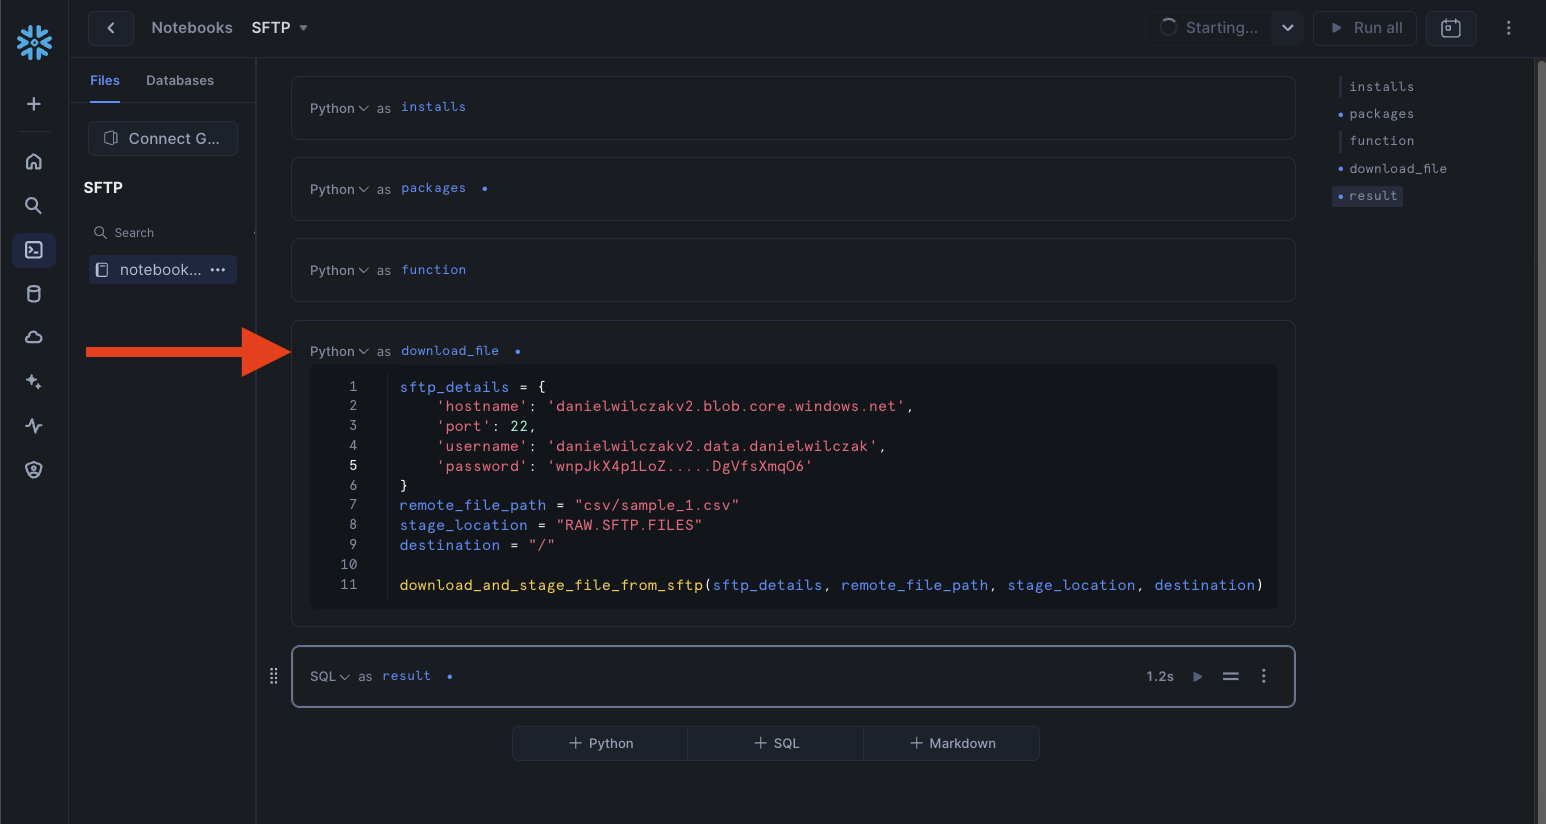
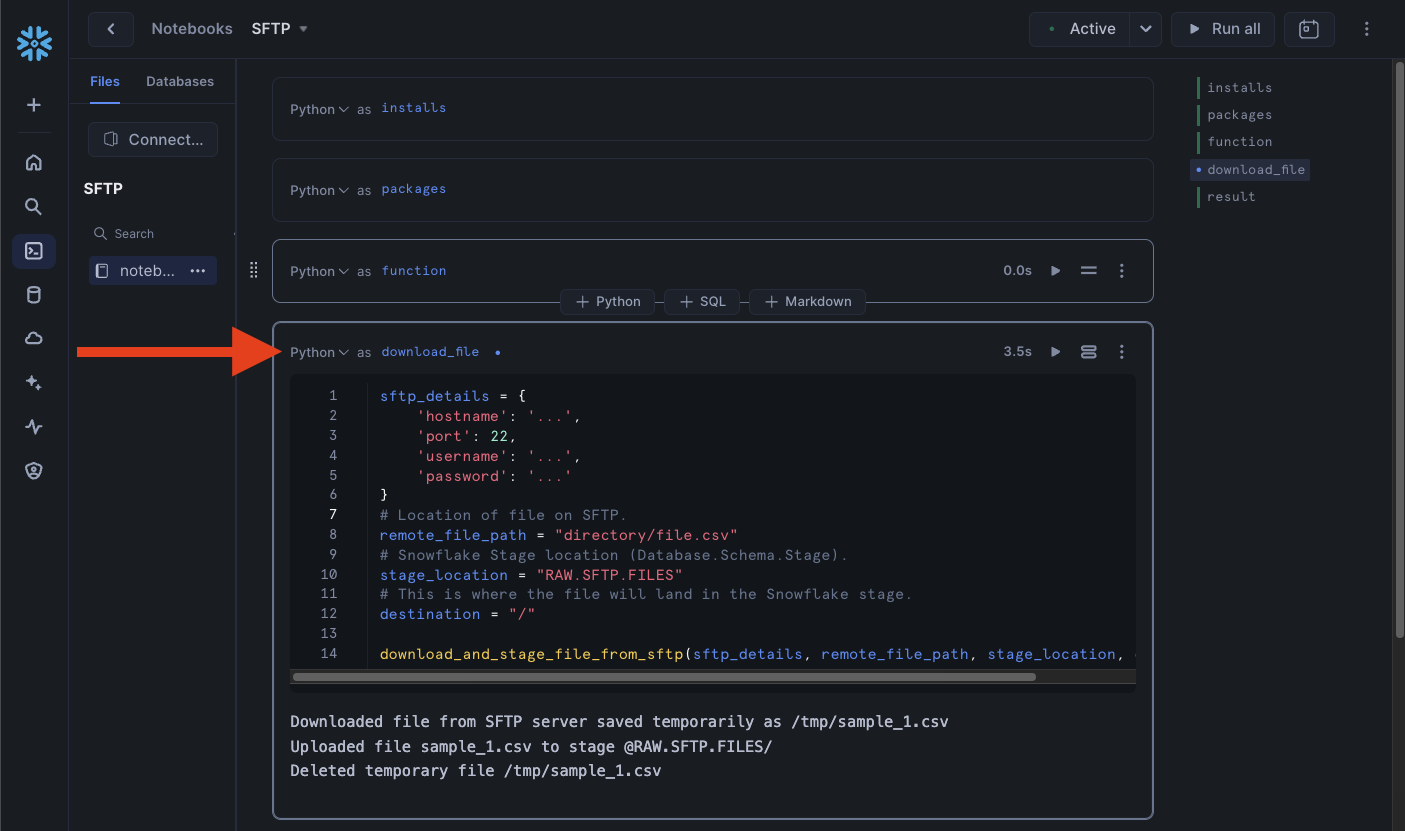
Updated image and title.

diff --git a/docs/snowflake/sftp/index.md b/docs/snowflake/sftp/index.md
@@ -1,4 +1,4 @@
-# SFTP to Snowflake Stage - Using containerized notebooks
+# SFTP to Snowflake Stage
 In this tutorial we will show how you can takes files from an sftp and load them into a Snowflake stage to later be loaded into a table.
 
 ## Video
